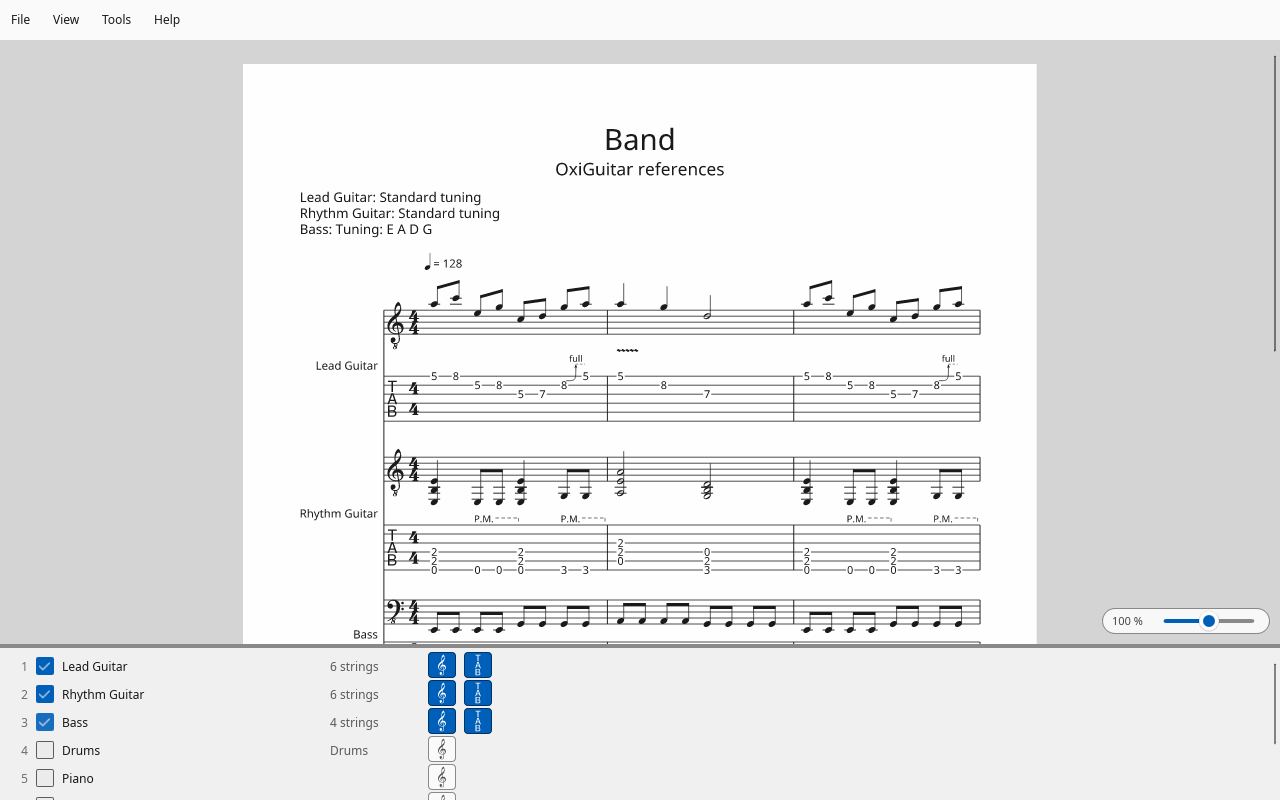
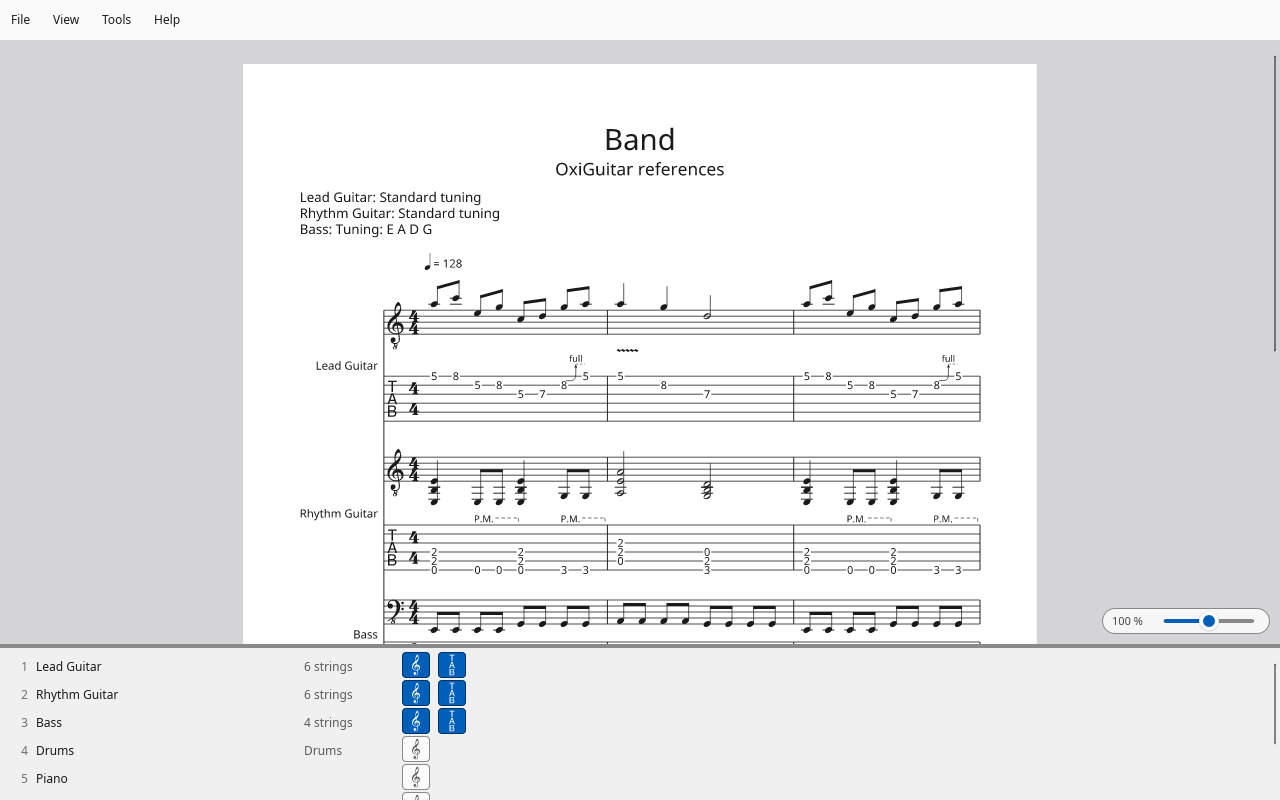
Track list: no show tick, the notation buttons do it (#36)
The tick and the notation buttons did the same job (both buttons off
already hid a track) and had to be kept in step. Mateus asked to remove
the tick to save room and the risk of the two disagreeing. A track is
now shown or hidden only by its buttons: both off hides it, either
button on a hidden track shows it in that notation. Clicking a name
still shows that track alone, and View → Multitrack still switches
between one track and all. The last shown track still can't be hidden.

Tracks::set_shown and the track-toggled callback are gone; the tests
show hidden tracks through their buttons. The F1 note, the manual
(tracks, keys and its screenshot) and ui.md describe the new list.

Claude-Session: https://claude.ai/code/session_01Hc7MUFX6AmhdMXrEQ1VZgp

Changed region(s): [[0.3125, 0.8125, 0.4062, 1.0], [0.0312, 0.8125, 0.125, 1.0], [0.25, 0.8125, 0.2812, 0.9688]]

diff --git a/crates/oxiguitar-app/src/tracks.rs b/crates/oxiguitar-app/src/tracks.rs
@@ -3,11 +3,14 @@
 
 //! The track list's state: which tracks are shown, and in what notation.
 //!
-//! Each track has a show tick and two notation buttons, standard notation
-//! (a G clef) and tablature (TAB). Any combination is allowed; with both off
-//! the track is hidden, which is the same as unticking it (Mateus,
-//! 16 Oct 2026). A track remembers its last notation, so ticking it again
-//! brings that back. The last shown track cannot be hidden.
+//! Each track has two notation buttons, standard notation (a G clef) and
+//! tablature (TAB). Any combination is allowed, and both off hides the
+//! track (Mateus, 16 Oct 2026); a hidden track comes back, in the notation
+//! of the button clicked, when either button is clicked. There is no
+//! separate show tick: the buttons do that job, so the two can't disagree
+//! (Mateus, 17 Oct 2026). Clicking a name shows that track alone, and
+//! View → Multitrack switches between one track and all. The last shown
+//! track cannot be hidden.
 
 use std::collections::BTreeMap;
 
@@ -114,15 +117,6 @@ impl Tracks {
         );
     }
 
-    /// The show tick of track `i` was set to `on`.
-    pub(crate) fn set_shown(&mut self, i: usize, on: bool) {
-        if on {
-            self.show(i);
-        } else {
-            self.hide(i);
-        }
-    }
-
     /// Show track `i` alone.
     pub(crate) fn solo(&mut self, i: usize) {
         if i < self.len() {
@@ -188,7 +182,9 @@ mod tests {
     #[test]
     fn any_combination_and_none_hides() {
         let mut t = guitar_piano_drums();
-        t.set_shown(1, true);
+        // The piano is hidden: its clef button shows it.
+        t.toggle_standard(1);
+        assert_eq!(t.shown(), vec![0, 1]);
         // Guitar: tab only, then nothing (hidden), then back.
         t.toggle_standard(0);
         assert_eq!(
@@ -209,11 +205,7 @@ mod tests {
             }
         );
         assert_eq!(t.shown(), vec![1]);
-        // Ticking it again brings back its last notation: tab only.
-        t.set_shown(0, true);
-        assert!(t.row(0).tablature && !t.row(0).standard);
-        // A button on a hidden track shows it with that notation.
-        t.set_shown(0, false);
+        // A button on a hidden track shows it with that notation alone.
         t.toggle_standard(0);
         assert_eq!(
             t.row(0),
@@ -228,8 +220,6 @@ mod tests {
     #[test]
     fn the_last_shown_track_stays() {
         let mut t = guitar_piano_drums();
-        t.set_shown(0, false);
-        assert!(t.row(0).shown);
         t.toggle_standard(0);
         t.toggle_tablature(0);
         // Standard notation off is fine; then tab off would leave nothing
@@ -257,8 +247,9 @@ mod tests {
         assert_eq!(t.shown(), vec![0]);
         t.solo(1);
         assert_eq!(t.shown(), vec![1]);
-        t.set_shown(2, true);
+        t.toggle_standard(2);
         assert!(t.is_multitrack());
+        assert_eq!(t.shown(), vec![1, 2]);
         assert_eq!(t.notation().len(), 3);
     }
 }

diff --git a/crates/oxiguitar-app/src/main.rs b/crates/oxiguitar-app/src/main.rs
@@ -147,7 +147,7 @@ fn main() -> Result<(), slint::PlatformError> {
         "Score zoom: the slider at the bottom right of the score; click its percentage for 100 %",
         "Ctrl + mouse wheel: zoom the interface",
         "Ctrl + +  /  Ctrl + −  /  Ctrl + 0: zoom the interface in, out, back to 100 %",
-        "Track list: tick tracks to show them together; click a name to show that track alone",
+        "Track list: the clef and TAB buttons show a track's notation, both off hides it; click a name to show that track alone",
     ]));
     ui.set_about_lines(lines(&[
         &format!(
@@ -173,18 +173,6 @@ fn main() -> Result<(), slint::PlatformError> {
     ui.on_canvas_changed(move || canvas_changed(&a));
     let a = app.clone();
     ui.on_zoom_moved(move |v| zoom_moved(&a, v));
-    let a = app.clone();
-    ui.on_track_toggled(move |i| {
-        // The tick has already flipped (two-way binding): follow it.
-        let on = a
-            .borrow()
-            .ui
-            .upgrade()
-            .and_then(|ui| ui.get_tracks().row_data(i as usize))
-            .is_some_and(|r| r.shown);
-        a.borrow_mut().tracks.set_shown(i as usize, on);
-        sync_tracks(&a);
-    });
     let a = app.clone();
     ui.on_standard_clicked(move |i| {
         a.borrow_mut().tracks.toggle_standard(i as usize);

diff --git a/docs/design/ui.md b/docs/design/ui.md
@@ -8,7 +8,7 @@ These rules come from Mateus's review of the GUI spike (16 October 2026). They a
 - **Canvas:** the score, centred on a grey (dark grey with Dark Page) background, with scroll bars. The mouse wheel scrolls; in the Horizontal layout, when the line fits the window's height, the wheel scrolls along it. Arrow keys, Page Up / Page Down, Space, Home and End scroll too. Before a file is open, one muted line says how to open one.
 - **Score zoom slider** bottom right, as below. Zooming keeps the middle of the view in place. In the Vertical layout the lines are as wide as the window, so zooming or resizing reflows the bars.
 - **Status line** bottom left, a pill like the slider: errors (a file that cannot be read, a MuseScore file that needs its plugin) and tool reports. It disappears after ten seconds or when clicked. Nothing is said when things simply work.
-- **Track list** along the bottom (F8; hidden from View → Tracks): number, a tick box to show the track, the name, the instrument (strings or drums), and two **notation buttons**: a G clef for standard notation and the vertical TAB sign for tablature (tracks without strings have only the clef). The buttons are drawn by our renderer, centred on their ink and highlighted when on, like the spike's palette buttons (`icons.rs`). Any combination is allowed: standard notation, tablature, both, or neither, which hides the track and unticks it; ticking a hidden track brings back its last notation, and a notation button on a hidden track shows it (Mateus, 16 Oct 2026). The last shown track cannot be hidden. Tablature starts on only for fretted instruments (see engraving.md, "Clefs, tablature and keyboards"). Clicking a name shows that track alone. View → Multitrack is ticked whenever more than one track is shown; clicking it goes back to the first of them, or from one track shows all. Its height fits up to five tracks and the splitter changes it. The rules live in `tracks.rs`, without window code, and are unit-tested.
+- **Track list** along the bottom (F8; hidden from View → Tracks): number, the name, the instrument (strings or drums), and two **notation buttons**: a G clef for standard notation and the vertical TAB sign for tablature (tracks without strings have only the clef). The buttons are drawn by our renderer, centred on their ink and highlighted when on, like the spike's palette buttons (`icons.rs`). Any combination is allowed: standard notation, tablature, both, or neither, which hides the track; a notation button on a hidden track shows it in that notation (Mateus, 16 Oct 2026). There is no separate show tick: the buttons already show and hide tracks, and one control can't fall out of step with another (Mateus, 17 Oct 2026). The last shown track cannot be hidden. Tablature starts on only for fretted instruments (see engraving.md, "Clefs, tablature and keyboards"). Clicking a name shows that track alone. View → Multitrack is ticked whenever more than one track is shown; clicking it goes back to the first of them, or from one track shows all. Its height fits up to five tracks and the splitter changes it. The rules live in `tracks.rs`, without window code, and are unit-tested.
 - **Ticks in menus** are two-way bound in Slint and set from one place (`pick-layout`, `pick-paper`): a checkable item flips its own tick when clicked, which breaks a one-way binding such as `checked: layout == 0`, so the layout and paper items behave like radio buttons only this way.
 - **Window title** is just "OxiGuitar" (no file name), as Mateus asked.
 - **Icon:** the placeholder pick (`assets/icon/`, PNGs in `assets/icon/png/`) is the window icon on X11, Windows and macOS. Wayland compositors ignore window icons: they show the icon of the desktop entry named by the window's app id, `io.github.mateusrdp.OxiGuitar` (`assets/linux/`). The packages will install the entry and icons; for a build from source, `scripts/install-desktop-entry.sh` installs them for the current user.

diff --git a/docs/manual/src/tracks.md b/docs/manual/src/tracks.md
@@ -1,9 +1,10 @@
 # Tracks and notation
 
-The track list along the bottom of the window shows every track of the song: its number, a tick box, its name, its strings (or Drums) and its notation buttons. **View → Tracks** (F8) hides or shows the list; drag its top edge to make it taller or shorter.
+The track list along the bottom of the window shows every track of the song: its number, its name, its strings (or Drums) and its notation buttons. **View → Tracks** (F8) hides or shows the list; drag its top edge to make it taller or shorter.
 
 - **Click a name** to show that track alone.
-- **Tick several tracks** to show them together, lined up bar by bar in one score. **View → Multitrack** is ticked whenever more than one track is shown. Choosing it goes back to the first of those tracks, or, with one track shown, shows them all.
+- **Click a hidden track's notation button** to show it with the others, lined up bar by bar in one score.
+- **View → Multitrack** is ticked whenever more than one track is shown. Choosing it goes back to the first of those tracks, or, with one track shown, shows them all.
 - With several tracks, each system starts with the tracks' names.
 
 ## Notation buttons
@@ -15,8 +16,8 @@ Each track has two buttons: a **treble clef** for standard notation and **TAB** 
 | on | on | standard notation above tablature |
 | on | off | standard notation |
 | off | on | tablature, with the rhythm drawn around it |
-| off | off | nothing: the track is hidden and its tick box cleared |
+| off | off | nothing: the track is hidden |
 
-Ticking a hidden track brings back the notation it had. The last track shown cannot be hidden.
+Clicking either button of a hidden track shows it again, with that notation. The last track shown cannot be hidden.
 
 When a file opens, each track shows the notation it was saved with. Tablature is on only for fretted instruments (guitars, basses, banjo and the like), and keyboard tracks get a grand staff, split between the hands.

diff --git a/CHANGELOG.md b/CHANGELOG.md
@@ -80,6 +80,7 @@ Milestone M0 (foundations) is complete and merged into `main` (16 October 2026).
 
 ### Changed
 
+- The track list has no show tick any more: a track's notation buttons show and hide it (both off hides it, either button shows it again), which saves room and leaves one control per job.
 - Guitar Pro 6–8 files open about twice as fast: the XML tree keeps every element in one list and borrows names and text from the file instead of copying them (`oxiguitar-cli info` on Seek and Destroy: 0.11 s instead of 0.26 s). The scores and import logs read from every GPX and GP file in the corpus are unchanged.
 - Guitar Pro 6–8 beats keep their dynamic as a marking (`BeatEffects::dynamic`) as well as giving it to their notes as velocity, so the engraver can tell a marking from a velocity.
 - Beat text at the end of a system no longer runs off the page; the page test now checks where each text ends, not only where it starts.

diff --git a/docs/manual/src/keys.md b/docs/manual/src/keys.md
@@ -15,5 +15,5 @@
 | Ctrl + + / Ctrl + − / Ctrl + 0 | Zoom the interface in, out, back to 100 % |
 | Score zoom slider, bottom right | Zoom the score; click the percentage for 100 % |
 | Click a track's name | Show that track alone |
-| Tick a track | Show it with the others |
+| Click a hidden track's clef or TAB | Show it with the others |
 | Click the status line | Close the message |
